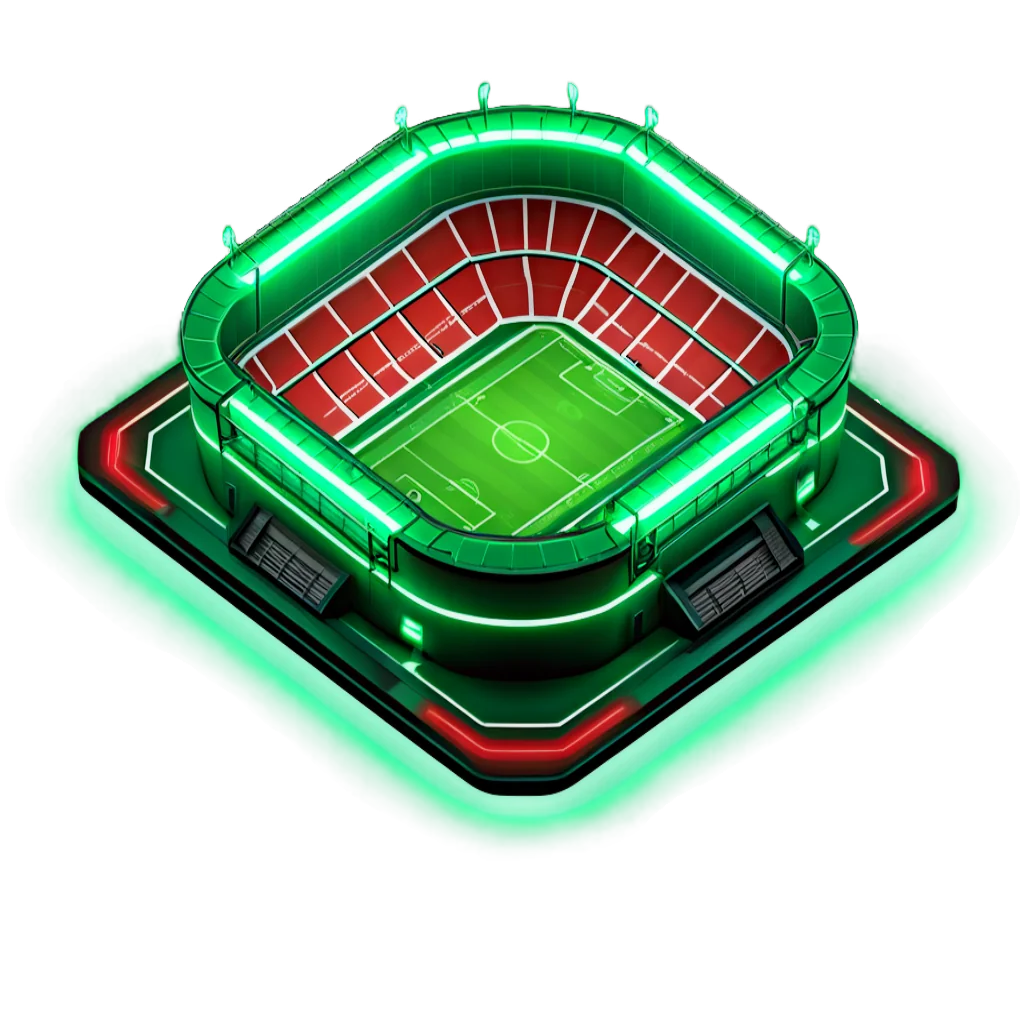
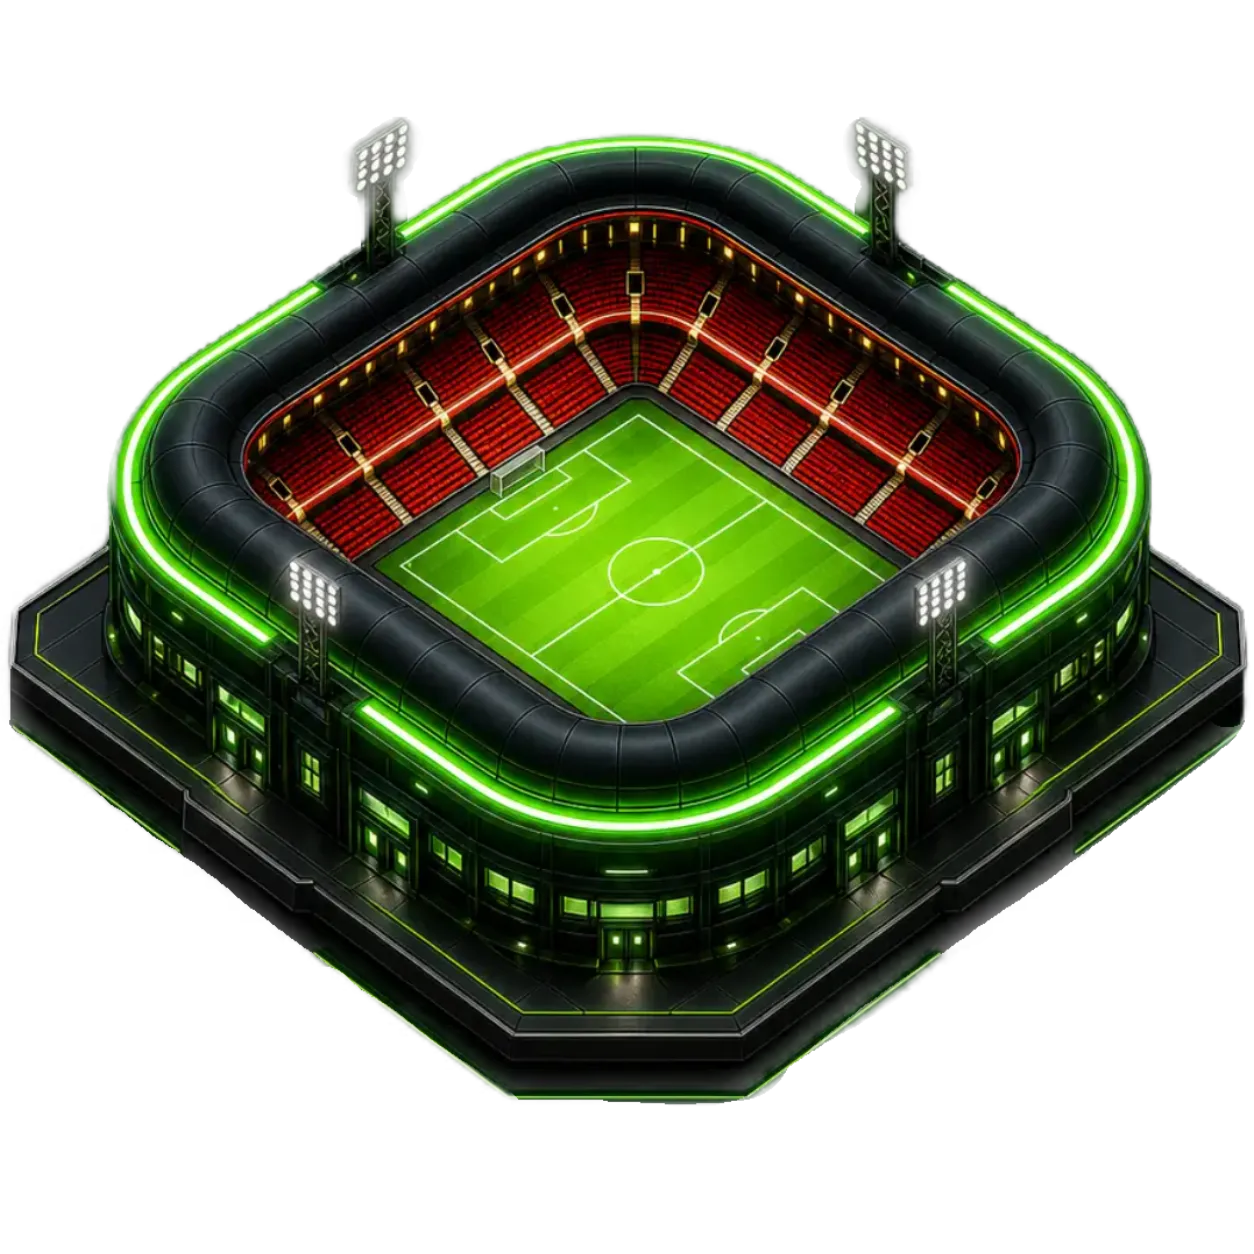
feat: add arena sprite to iso city center

diff --git a/src/components/playmanager/playmanager-iso-city.tsx b/src/components/playmanager/playmanager-iso-city.tsx
@@ -34,8 +34,9 @@ type BuildingSprite = {
 };
 
 const SPRITES: BuildingSprite[] = [
-  { key: 'training', src: '/playmanager/city/buildings/training.webp', imgX: 500,  imgY: 620, w: 780, h: 600, rot: 0, sy: 1 },
-  { key: 'medical',  src: '/playmanager/city/buildings/medical.webp',  imgX: 2060, imgY: 310, w: 780, h: 700, rot: 0, sy: 1 },
+  { key: 'arena',    src: '/playmanager/city/buildings/arena.webp',    imgX: 1054, imgY: 150, w: 1060, h: 900, rot: 0, sy: 1 },
+  { key: 'training', src: '/playmanager/city/buildings/training.webp', imgX: 500,  imgY: 620, w: 780,  h: 600, rot: 0, sy: 1 },
+  { key: 'medical',  src: '/playmanager/city/buildings/medical.webp',  imgX: 2060, imgY: 310, w: 780,  h: 700, rot: 0, sy: 1 },
 ];
 
 const HOTSPOTS: Hotspot[] = [